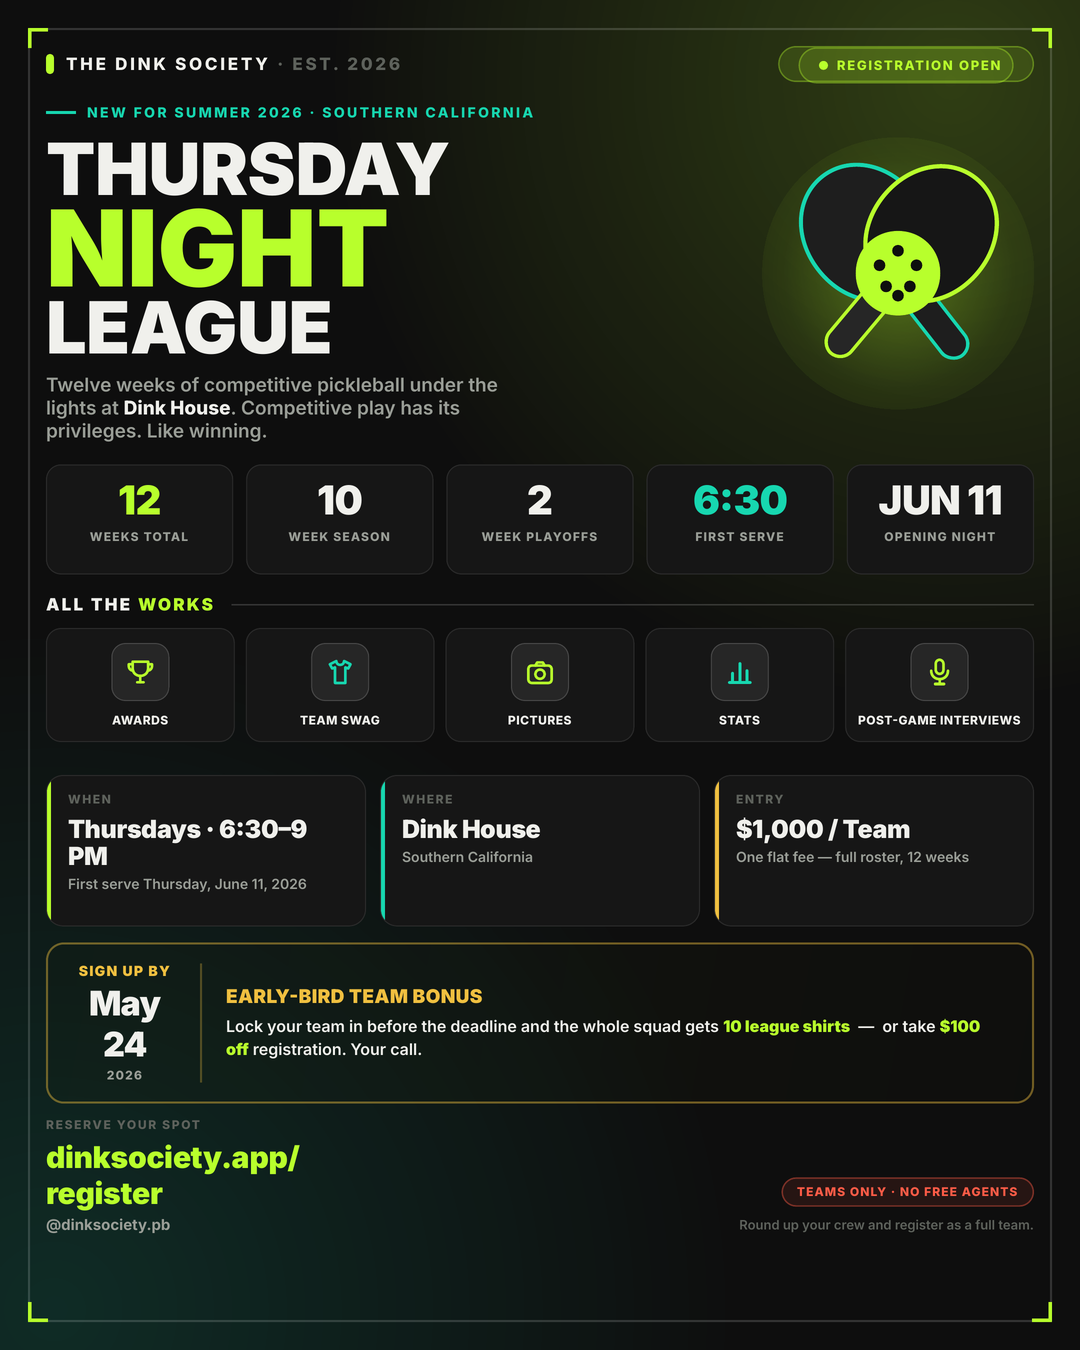
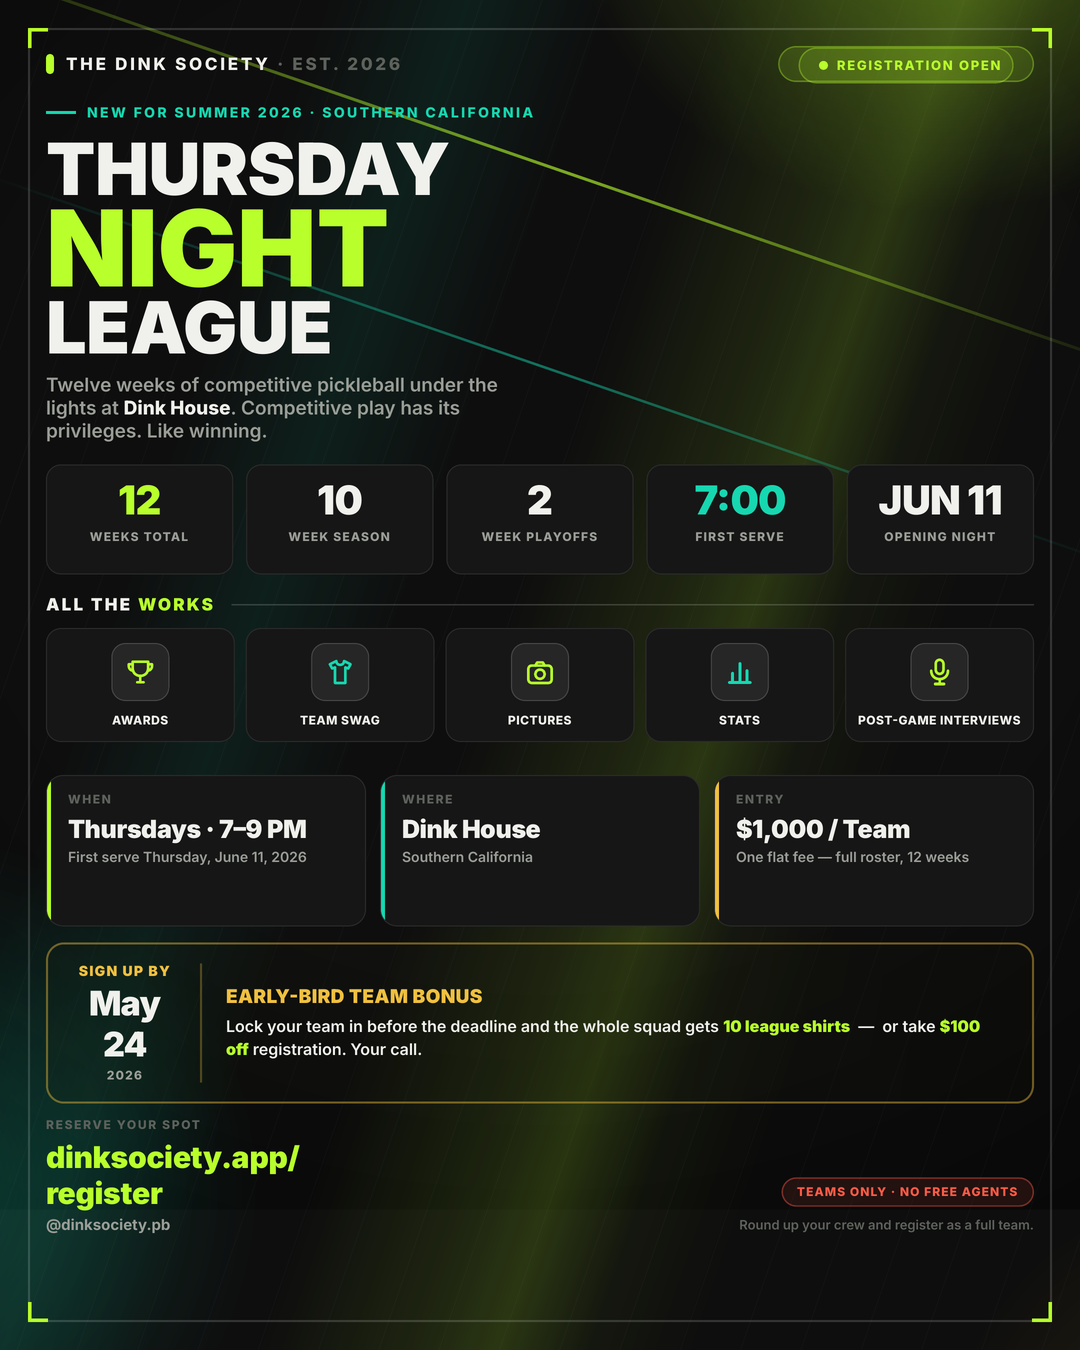
new new

diff --git a/public/rules.html b/public/rules.html
@@ -59,39 +59,60 @@
     </div>
   </div>
   <main class="rules-shell">
-    <nav class="toc"><div class="toc__label">On this page</div><div class="toc__links"><a href="#match-format">Match format</a><a href="#gameplay">Gameplay</a><a href="#lineups">Lineups</a><a href="#scoring">Scoring</a><a href="#society-circuit">Society Circuit</a><a href="#conduct">Conduct</a><a href="#disputes">Disputes</a></div></nav>
+    <nav class="toc"><div class="toc__label">On this page</div><div class="toc__links"><a href="#team-rosters">Team rosters</a><a href="#match-format">Match format</a><a href="#gameplay">Gameplay</a><a href="#lineups">Lineups</a><a href="#scoring">Scoring</a><a href="#standings">Standings &amp; playoffs</a><a href="#society-circuit">Society Circuit</a><a href="#officiating">Officiating</a><a href="#conduct">Conduct</a><a href="#disputes">Disputes</a></div></nav>
+
+    <section class="rules-section" id="team-rosters">
+      <div class="rules-section__label">01 · Team rosters</div>
+      <h2>Build your team. Lock your roster.</h2>
+      <p>A team is a roster of up to 12 players, managed by the captain through the Captain Portal.</p>
+      <ul>
+        <li>The league fee is due at the time of registration to confirm your team's spot.</li>
+        <li>Final rosters are due one week prior to the first game.</li>
+        <li>All players must be at least 18 years of age.</li>
+        <li>The captain is responsible for collecting waivers, finalizing the roster, and submitting payment.</li>
+        <li>Maximum of 12 rostered players. Only rostered players may compete.</li>
+        <li>Minimum 4 players per match, with a maximum of 8 playing on any given day.</li>
+        <li>Subs must be on the roster from Week 1 — no late adds. Roster your subs in advance to cover schedule conflicts and player injuries.</li>
+      </ul>
+      <div class="rules-callout"><strong>A non-rostered player is an automatic forfeit.</strong> Keep your roster current and only play rostered players.</div>
+    </section>
 
     <section class="rules-section" id="match-format">
-      <div class="rules-section__label">01 · Match format</div>
+      <div class="rules-section__label">02 · Match format</div>
       <h2>Two rounds. Twelve games. Four points on the line.</h2>
-      <p>Every league match is played across two rounds of six games each. Each round includes one women's doubles, one men's doubles, and four mixed doubles.</p>
+      <p>Circuit ONE runs a doubles round-robin — every team plays every other team across the regular season. Each league match is played over two rounds of six games each. Each round includes one women's doubles, one men's doubles, and four mixed doubles.</p>
       <div class="match-grid"><div class="match-grid__game">G1</div><div class="match-grid__type">Women's doubles</div><div class="match-grid__note">F + F</div><div class="match-grid__game">G2</div><div class="match-grid__type">Men's doubles</div><div class="match-grid__note">M + M</div><div class="match-grid__game">G3</div><div class="match-grid__type">Mixed doubles</div><div class="match-grid__note">1F + 1M</div><div class="match-grid__game">G4</div><div class="match-grid__type">Mixed doubles</div><div class="match-grid__note">1F + 1M</div><div class="match-grid__game">G5</div><div class="match-grid__type">Mixed doubles</div><div class="match-grid__note">1F + 1M</div><div class="match-grid__game">G6</div><div class="match-grid__type">Mixed doubles</div><div class="match-grid__note">1F + 1M</div></div>
       <p>Round 2 repeats the same structure. You cannot swap in a second women's doubles or drop a mixed slot.</p>
       <h3>Home and away roles</h3>
       <ul><li><strong>Round 1:</strong> Home serves first, away chooses side.</li><li><strong>Round 2:</strong> Home chooses side, away serves first.</li></ul>
+      <h3>Weekly standings</h3>
+      <p>Standings are updated weekly as scores are confirmed — check the Standings page after every match night.</p>
     </section>
 
     <section class="rules-section" id="gameplay">
-      <div class="rules-section__label">02 · Gameplay</div>
+      <div class="rules-section__label">03 · Gameplay</div>
       <h2>Games go to 11, win by 1.</h2>
       <p>Rally scoring. First to 11 wins, ahead by at least one. No cap, no win-by-two.</p>
+      <h3>Check in 30 minutes early</h3><p>Be at the venue and checked in 30 minutes before your scheduled start. A 10-minute grace period applies to the first game only.</p>
       <h3>Switch sides at 6</h3><p>Players switch ends when the first side reaches 6 points.</p>
       <h3>Standard pickleball rules apply</h3><p>All USA Pickleball rules govern play unless specifically modified here.</p>
-      <div class="rules-callout"><strong>Pace matters.</strong> Most venues give us a time window. Keep transitions brisk, exchange lineups ten minutes before start.</div>
+      <div class="rules-callout"><strong>Pace matters.</strong> Most venues give us a fixed time window. Check in early and keep transitions brisk between games.</div>
     </section>
 
     <section class="rules-section" id="lineups">
-      <div class="rules-section__label">03 · Lineups</div>
+      <div class="rules-section__label">04 · Lineups</div>
       <h2>Lock early. Reveal together.</h2>
-      <p>Before every match, both captains build a 12-game lineup. Each game gets two players from your roster.</p>
+      <p>Before every match, both captains build a 12-game lineup in the Captain Portal. Each game gets two players from your roster.</p>
+      <h3>Submit 24 hours ahead</h3><p>Lineups must be set on the website at least 24 hours prior to league play.</p>
       <h3>Slot rules</h3><ul><li><strong>Women's doubles (G1):</strong> Both players must be women.</li><li><strong>Men's doubles (G2):</strong> Both players must be men.</li><li><strong>Mixed doubles (G3–G6):</strong> One man and one woman.</li></ul>
-      <h3>No back-to-back same pair within a round</h3><p>The same two players cannot appear together in consecutive games within the same round.</p>
+      <h3>Rotate partners</h3><p>Rotate partners each game — you may only play with the same partner once per round.</p>
+      <h3>Cap on games</h3><p>Maximum of 4 games per player.</p>
       <h3>Hidden simultaneous reveal</h3><p>When you lock your lineup, you see your picks but nothing about the opponent. Lineups reveal simultaneously once both captains lock.</p>
       <h3>Locking is final</h3><p>Once both captains lock, lineups cannot be changed. Contact an admin for emergencies.</p>
     </section>
 
     <section class="rules-section" id="scoring">
-      <div class="rules-section__label">04 · Scoring</div>
+      <div class="rules-section__label">05 · Scoring</div>
       <h2>Both captains enter. Both confirm.</h2>
       <p>Scoring is dual-entry. Both captains type their version of each game's score. The system validates agreement.</p>
       <h3>Round points</h3>
@@ -100,26 +121,55 @@
       <h3>Finalizing</h3><p>A match is final only when all 12 games are confirmed AND both captains submit. Any edit after submission withdraws both submissions.</p>
     </section>
 
+    <section class="rules-section" id="standings">
+      <div class="rules-section__label">06 · Standings &amp; playoffs</div>
+      <h2>Ten weeks to earn a seed. Two to settle it.</h2>
+      <p>The 10-week regular season sets the table. Standings are ordered by match points earned across all league matches.</p>
+      <h3>Tiebreakers</h3>
+      <p>When teams are level on match points, ties break in this order:</p>
+      <ol>
+        <li><strong>PTS</strong> — Match Points</li>
+        <li><strong>GW</strong> — Games Won</li>
+        <li><strong>PS</strong> — Points Scored</li>
+        <li><strong>DIFF</strong> — Points Differential</li>
+      </ol>
+      <h3>Playoffs — Weeks 11 &amp; 12</h3>
+      <p>The top 4 teams after Week 10 advance to the playoffs.</p>
+      <ul>
+        <li><strong>Week 11 — Playoff round:</strong> The top 4 seeds compete in the playoff bracket. The bottom 2 teams play each other in a separate matchup.</li>
+        <li><strong>Week 12 — Championship:</strong> The 1st and 2nd seeds meet for the championship; the 3rd and 4th seeds play for 3rd place.</li>
+      </ul>
+    </section>
+
     <section class="rules-section" id="society-circuit">
-      <div class="rules-section__label">05 · Society Circuit points</div>
+      <div class="rules-section__label">07 · Society Circuit points</div>
       <h2>The big picture beyond one match.</h2>
-      <p>Match points drive division standings. Society Circuit points span the entire Circuit and cross divisions.</p>
+      <p>Match points drive the division standings. Society Circuit points span the entire Circuit and reward week-to-week performance.</p>
       <h3>Weekly bonuses</h3>
       <div class="points-grid"><div>Match win</div><div class="points-grid__value">10 pts</div><div>Match tie (2–2)</div><div class="points-grid__value">5 pts</div><div>Sweep bonus (4–0)</div><div class="points-grid__value">+5 pts</div><div>Top team of the week</div><div class="points-grid__value">5 pts</div></div>
       <h3>Placement bonus</h3>
       <div class="points-grid"><div>1st place</div><div class="points-grid__value">100 pts</div><div>2nd place</div><div class="points-grid__value">75 pts</div><div>3rd place</div><div class="points-grid__value">50 pts</div><div>4th place</div><div class="points-grid__value">30 pts</div><div>5th / 6th</div><div class="points-grid__value">15 / 0 pts</div></div>
-      <h3>Tiebreakers</h3><ol><li>Total games won</li><li>Head-to-head match points</li><li>Point differential</li></ol>
+    </section>
+
+    <section class="rules-section" id="officiating">
+      <div class="rules-section__label">08 · Officiating</div>
+      <h2>Call your own lines. Honestly.</h2>
+      <ul>
+        <li><strong>Self-regulated.</strong> Games are officiated by the players on the court.</li>
+        <li><strong>Sideline silence.</strong> Sideline players and fans may not make calls or coach during play.</li>
+        <li><strong>Kitchen-line foot faults.</strong> First call is a warning; the second costs a point.</li>
+      </ul>
     </section>
 
     <section class="rules-section" id="conduct">
-      <div class="rules-section__label">06 · Conduct</div>
+      <div class="rules-section__label">09 · Conduct &amp; etiquette</div>
       <h2>Play hard. Stay human.</h2>
-      <ul><li><strong>Self-officiate.</strong> No refs. When in doubt, the ball was in — call it against yourself.</li><li><strong>Pace and grace.</strong> Keep games moving.</li><li><strong>Captain handles escalations.</strong></li><li><strong>Roster only.</strong> No guest ringers.</li></ul>
+      <ul><li><strong>Fun, friendly competition</strong> for people who love the game.</li><li><strong>Self-officiate honestly.</strong> When in doubt, the ball was in — call it against yourself.</li><li><strong>Pace and grace.</strong> Keep games moving.</li><li><strong>Captain handles escalations.</strong></li><li><strong>Roster only.</strong> No guest ringers.</li><li><strong>No swearing, negative taunting, or poor sportsmanship.</strong></li></ul>
       <div class="rules-callout"><strong>Repeated unsportsmanlike conduct can get a team removed</strong> with no refund. We've never had to and prefer to keep it that way.</div>
     </section>
 
     <section class="rules-section" id="disputes">
-      <div class="rules-section__label">07 · Disputes</div>
+      <div class="rules-section__label">10 · Disputes</div>
       <h2>Resolve it at the court.</h2>
       <h3>Scoring disagreement</h3><p>If scores don't match, the system flags it. Talk courtside, fix it, re-enter.</p>
       <h3>Rule question mid-game</h3><p>Pause. Check the rule. If unclear, replay the rally.</p>

diff --git a/public/index.html b/public/index.html
@@ -454,8 +454,8 @@
     <div class="timeline-grid">
       <div class="tl-time">:00</div>
       <div class="tl-block">
-        <div class="tl-title">Arrive & Exchange Lineups</div>
-        <div class="tl-desc">Captains trade written lineups ten minutes before play. Confirm court assignments, get loose.</div>
+        <div class="tl-title">Check In & Warm Up</div>
+        <div class="tl-desc">Lineups are already locked — captains set them online 24 hours ahead in the Captain Portal. Check in 30 minutes early, confirm court assignments, get loose.</div>
       </div>
       <div class="tl-time">:15</div>
       <div class="tl-block">